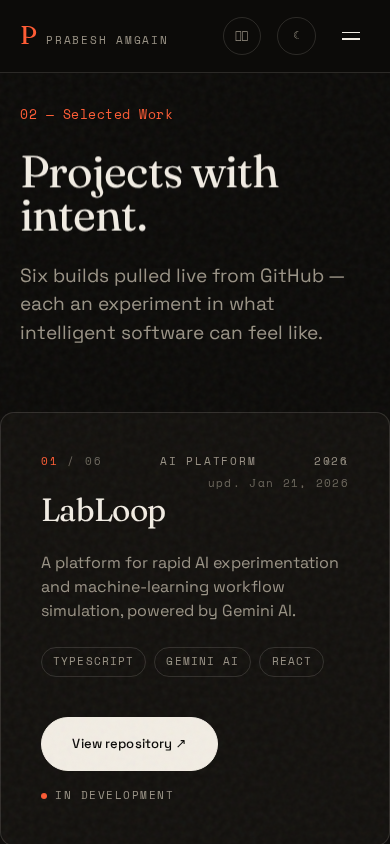
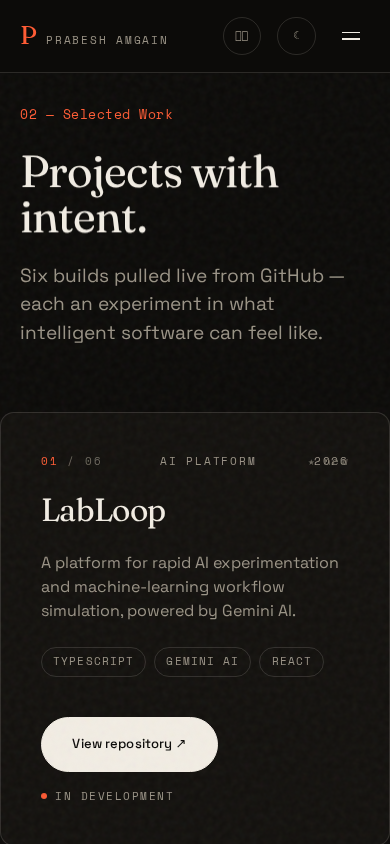
chore: remove hero kicker/location row (cleaner hero)

diff --git a/src/components/Hero.tsx b/src/components/Hero.tsx
@@ -47,9 +47,6 @@ export default function Hero() {
     const ctx = gsap.context(() => {
       const tl = gsap.timeline({ delay: 3.25, defaults: { ease: 'power4.out' } })
 
-      const kicker = el.querySelector('.hero-kicker')
-      if (kicker) tl.fromTo(kicker, { opacity: 0, y: 14 }, { opacity: 1, y: 0, duration: 0.8 }, 0)
-
       const nameLines = Array.from(el.querySelectorAll('.hero-name-line'))
       if (nameLines.length) {
         const chars: HTMLSpanElement[] = []
@@ -81,14 +78,6 @@ export default function Hero() {
 
   return (
     <section ref={ref} className="hero section container" id="top">
-      <div className="hero-top mono">
-        <span className="hero-kicker">{t.hero.kicker}</span>
-        <span className="hero-loc mono">
-          <span className="dot-live" />
-          {t.hero.location}
-        </span>
-      </div>
-
       <h1 className="hero-name display" aria-label={t.hero.name}>
         {nameParts.map((part, i) => (
           <span key={i} className={'hero-name-line' + (i % 2 ? ' hero-name-line--italic' : '')}>

diff --git a/src/components/hero.css b/src/components/hero.css
@@ -10,22 +10,6 @@
   overflow: hidden;
 }
 
-.hero-top {
-  display: flex;
-  align-items: center;
-  justify-content: space-between;
-  color: var(--ink-muted);
-  font-size: var(--text-xs);
-  text-transform: uppercase;
-  letter-spacing: 0.2em;
-}
-
-.hero-loc {
-  display: inline-flex;
-  align-items: center;
-  gap: 0.55rem;
-}
-
 .hero-name {
   font-size: var(--text-hero);
   margin-block: var(--space-4) var(--space-3);
